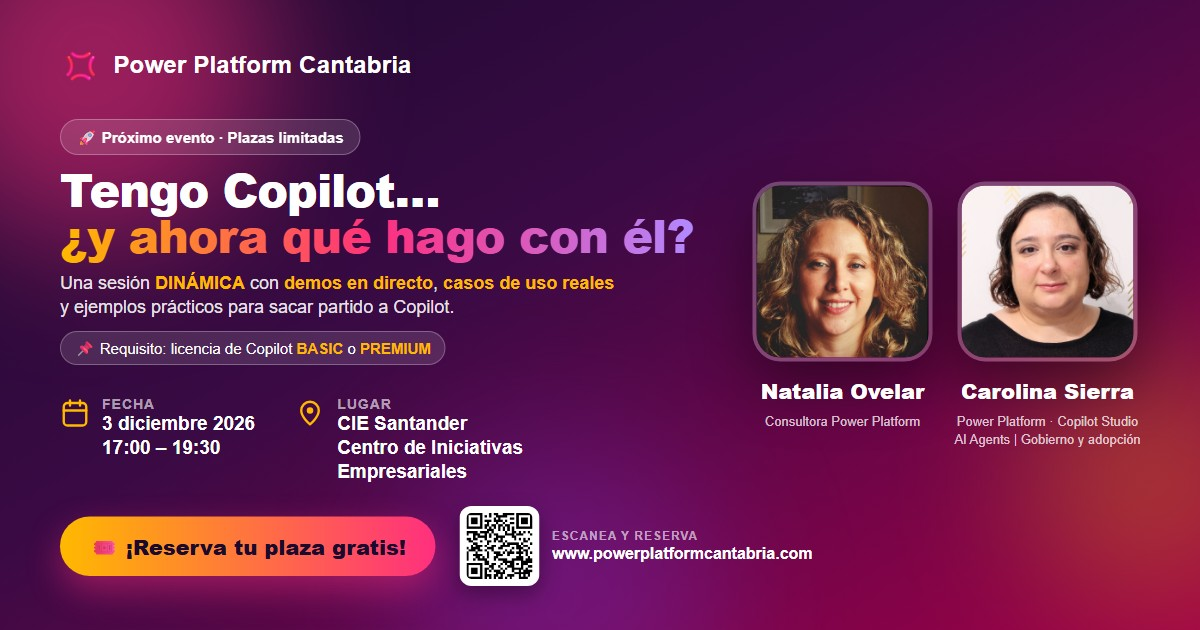
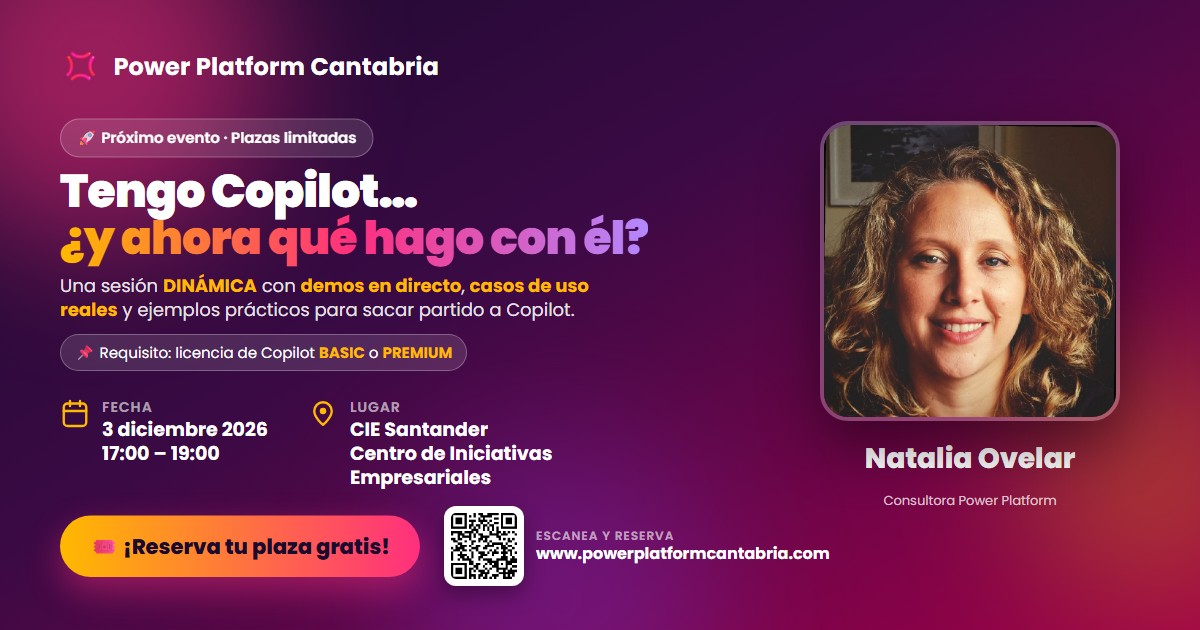
Solo Natalia

diff --git a/index.html b/index.html
@@ -45,7 +45,7 @@
             <svg viewBox="0 0 24 24" fill="none" stroke="currentColor" stroke-width="1.8" stroke-linecap="round" stroke-linejoin="round"><rect x="3" y="4" width="18" height="18" rx="3"/><line x1="16" y1="2" x2="16" y2="6"/><line x1="8" y1="2" x2="8" y2="6"/><line x1="3" y1="10" x2="21" y2="10"/><circle cx="12" cy="16" r="2.2" fill="currentColor" stroke="none"/></svg>
           </div>
           <h5 class="info-title">Fecha</h5>
-          <p class="info-text mb-0">3 de diciembre de 2026<br>de 17:00 a 19:30</p>
+          <p class="info-text mb-0">3 de diciembre de 2026<br>de 17:00 a 19:00</p>
         </div>
       </div>
       <div class="col-md-5 col-lg-4 mb-3">
@@ -82,26 +82,14 @@
   <div class="container">
     <div class="row align-items-center justify-content-center">
       <div class="col-md-5 col-lg-5 text-center mb-4 mb-md-0">
-        <div class="spotlight-duo">
-          <figure class="spotlight-person">
-            <img src="img/Natalia%20Ovelar.jpeg" alt="Natalia Ovelar" class="spotlight-photo">
-            <figcaption>
-              <span class="spotlight-person-name">Natalia Ovelar</span>
-              <span class="spotlight-person-role">Consultora Power Platform</span>
-            </figcaption>
-          </figure>
-          <figure class="spotlight-person">
-            <img src="img/Carolina%20Sierra.jpeg" alt="Carolina Sierra" class="spotlight-photo">
-            <figcaption>
-              <span class="spotlight-person-name">Carolina Sierra</span>
-              <span class="spotlight-person-role">Power Platform · Copilot Studio<br>AI Agents | Gobierno y adopción</span>
-            </figcaption>
-          </figure>
+        <div class="spotlight-photo-wrap">
+          <img src="img/Natalia%20Ovelar.jpeg" alt="Natalia Ovelar" class="spotlight-photo">
         </div>
       </div>
       <div class="col-md-7 col-lg-6">
-        <span class="spotlight-label">✨ Tus speakers</span>
-        <h2 class="spotlight-name">Natalia Ovelar y Carolina Sierra</h2>
+        <span class="spotlight-label">✨ Tu speaker</span>
+        <h2 class="spotlight-name">Natalia Ovelar</h2>
+        <p class="spotlight-role">Consultora Power Platform</p>
         <p class="spotlight-bio">
           Una sesión 100% práctica con <strong>demostraciones en directo</strong>, <strong>casos de uso reales</strong>
           y ejemplos que podrás aplicar en tu día a día desde el minuto uno.
@@ -161,7 +149,7 @@
         <h2 class="copilot-title">Tu Copilot, a pleno rendimiento</h2>
         <p class="copilot-text">
           Ya tienes la licencia… ahora toca exprimirla. Descubre en directo cómo Copilot te ayuda a
-          redactar, resumir, analizar y automatizar tu trabajo diario. Trae tu portátil y ¡pruébalo con nosotras!
+          redactar, resumir, analizar y automatizar tu trabajo diario. Trae tu portátil y ¡pruébalo en directo!
         </p>
       </div>
     </div>
@@ -965,46 +953,6 @@
       radial-gradient(circle at 15% 20%, rgba(157,0,73,.07), transparent 45%),
       radial-gradient(circle at 85% 80%, rgba(123,44,191,.08), transparent 45%),
       #fff;
-  }
-
-  .spotlight-duo {
-    display: flex;
-    justify-content: center;
-    gap: 1.5rem;
-    flex-wrap: wrap;
-  }
-
-  .spotlight-person {
-    margin: 0;
-    flex: 1 1 200px;
-    max-width: 240px;
-    display: flex;
-    flex-direction: column;
-    align-items: center;
-  }
-
-  .spotlight-person .spotlight-photo {
-    width: min(200px, 60vw);
-    height: min(200px, 60vw);
-  }
-
-  .spotlight-person figcaption {
-    margin-top: 1rem;
-    display: flex;
-    flex-direction: column;
-    gap: .2rem;
-  }
-
-  .spotlight-person-name {
-    font-weight: 800;
-    font-size: 1.15rem;
-  }
-
-  .spotlight-person-role {
-    color: #9D0049;
-    font-weight: 600;
-    font-size: .9rem;
-    line-height: 1.35;
   }
 
   .hero-req {

diff --git a/poster.html b/poster.html
@@ -182,14 +182,9 @@
     font-weight: 600;
     white-space: nowrap;
   }
-  .aside-duo { flex: none; width: 390px; margin-left: 24px; }
   .content { min-width: 0; }
+  .aside { flex: none; width: 340px; margin-left: 20px; }
   .title { font-size: 46px; }
-  .duo { display: flex; gap: 20px; align-items: flex-start; }
-  .person { display: flex; flex-direction: column; align-items: center; gap: 8px; width: 185px; }
-  .person .photo { width: 180px; height: 180px; }
-  .person .speaker-name { font-size: 21px; text-align: center; margin-top: 6px; }
-  .person .speaker-role { margin-top: 0; max-width: 200px; width: 200px; }
   .req {
     display: inline-block;
     margin-top: 12px;
@@ -223,7 +218,7 @@
           <svg viewBox="0 0 24 24" fill="none" stroke-width="1.9" stroke-linecap="round" stroke-linejoin="round"><rect x="3" y="4" width="18" height="18" rx="3"/><line x1="16" y1="2" x2="16" y2="6"/><line x1="8" y1="2" x2="8" y2="6"/><line x1="3" y1="10" x2="21" y2="10"/></svg>
           <div>
             <div class="meta-label">Fecha</div>
-            <div class="meta-value">3 diciembre 2026<br>17:00 – 19:30</div>
+            <div class="meta-value">3 diciembre 2026<br>17:00 – 19:00</div>
           </div>
         </div>
         <div class="meta-item">
@@ -247,20 +242,13 @@
       </div>
     </div>
 
-    <div class="aside aside-duo">
+    <div class="aside">
       <div class="speaker-group">
-        <div class="duo">
-          <div class="person">
-            <img class="photo" src="img/Natalia%20Ovelar.jpeg" alt="Natalia Ovelar">
-            <div class="speaker-name">Natalia Ovelar</div>
-            <div class="speaker-role">Consultora Power Platform</div>
-          </div>
-          <div class="person">
-            <img class="photo" src="img/Carolina%20Sierra.jpeg" alt="Carolina Sierra">
-            <div class="speaker-name">Carolina Sierra</div>
-            <div class="speaker-role">Power Platform · Copilot Studio<br>AI Agents | Gobierno y adopción</div>
-          </div>
+        <div class="photo-wrap">
+          <img class="photo" src="img/Natalia%20Ovelar.jpeg" alt="Natalia Ovelar">
         </div>
+        <div class="speaker-name">Natalia Ovelar</div>
+        <div class="speaker-role">Consultora Power Platform</div>
       </div>
     </div>
   </div>
